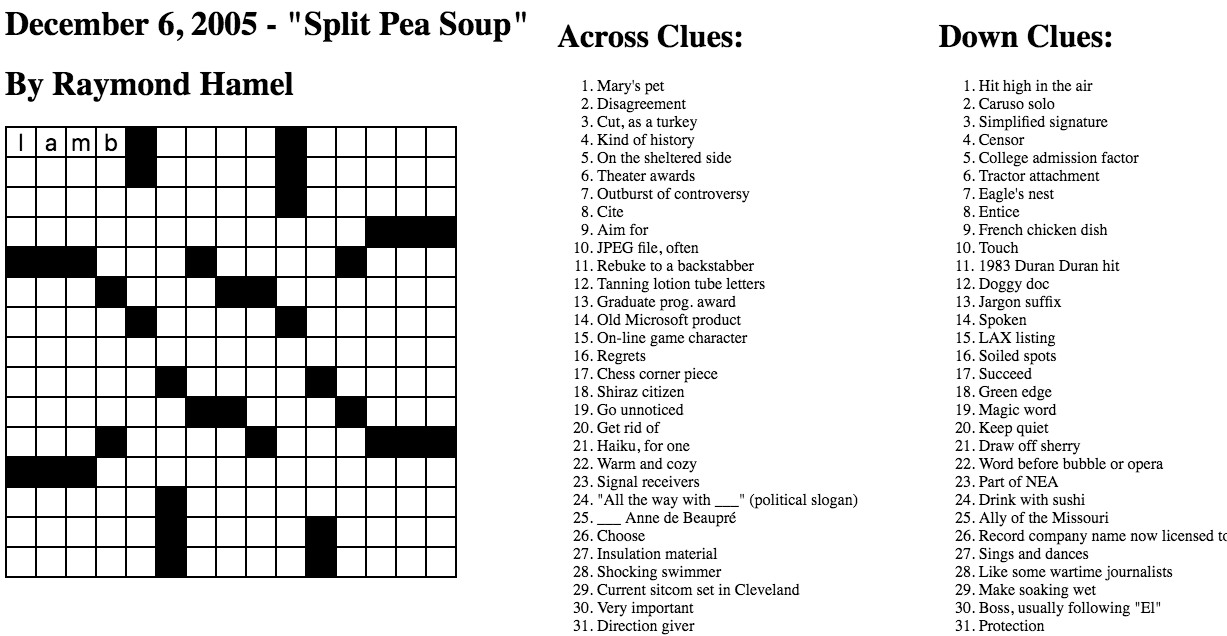
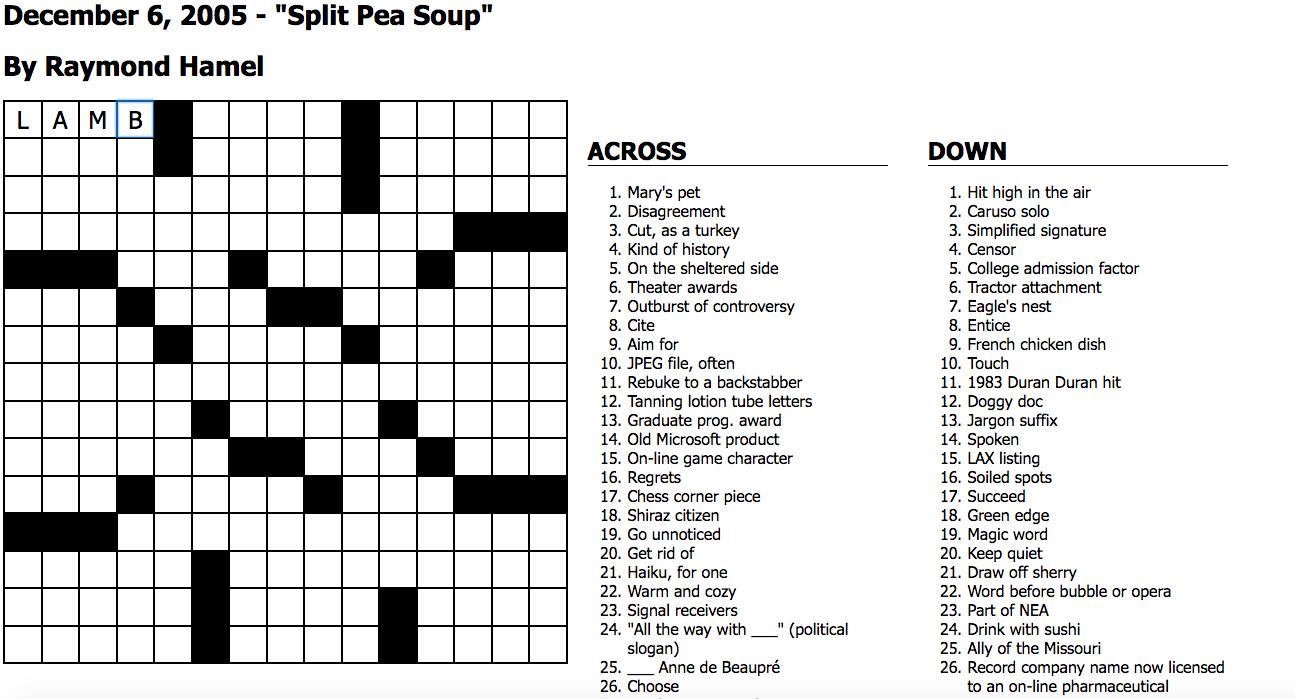
CW.html and applications.py edited, readme updated, /testfiles made public

Changed region(s): [[0.0, 0.0, 1.0, 1.0], [0.4645, 0.0299, 0.6194, 0.0896], [0.7433, 0.0299, 0.8981, 0.0896]]

diff --git a/templates/CW.html b/templates/CW.html
@@ -13,13 +13,14 @@ methods called from puz.py :
 	<style>
 		/*Title specs*/
 		#title{
-			font-size: 25pt;
+			font-size: 20pt;
+			font-family:Tahoma, Geneva, sans-serif;
 		}
 
+
 		/*Dimensions and specs of the crossword board: */
-		.board { border:1px solid black; 
-				width: {{Width *2}}px; 
-				height:{{Height*2}}px; 
+		.crossword-board-container .crossword-board .board{ 
+				border:1px solid black; 
 				margin:0 auto;
 				float: left;
  				}
@@ -28,37 +29,57 @@ methods called from puz.py :
 		{% for i in range(0,listSize) %}
 		#item{{i // Height + 1}}-{{i % Width + 1}}{
 			font-size:18pt;
+			text-transform: uppercase;
 			text-align: center;
+			font-family:Tahoma, Geneva, sans-serif;
 			}
 		{% endfor %}
 
 
 		/*Test 2*/
-		.crossword-clues {
-			position: absolute;
-			top: 0;
-			/*change these*/
-			left: 500;
-			width: 1000;
+
+		#clue-title{
+			border-bottom: 1px solid black;
+			font-size: 18pt;
 		}
+
+		.crossword-clues__list--across {
+		  float: left;
+		  top : 0px;
+		  right: 20px;
+		  width: 300px;
+		  padding: 200px;
+		  font-family:Tahoma, Geneva, sans-serif;
+		}
+
+		.crossword-clues__list--down{
+		  float: left;
+		  top : 0px;
+		  right: 20px;
+		  width: 300px;
+ 		  padding: 200px;
+ 		  font-family:Tahoma, Geneva, sans-serif;
+		}
+
 		.crossword-clues__list {
-			margin: 0 0 0 60px;
-			padding: 0;
+			margin: 0 0 0 0px;
+			padding: 20;
 			display: inline-block;
 			vertical-align: top;
 		}
 		.crossword-clues__list-title {
 			font-weight: bold;
-			padding: 4px;
+			padding: 20px;
 		}
 		.crossword-clues__list-item {
 			margin: 0;
-			padding: 4px;
+			padding: 20px;
 
 			&:before {
 				content: attr(data-number) '. ';
 			}
 		}
+
 		/*End test 2*/
 
 
@@ -119,22 +140,23 @@ methods called from puz.py :
 <!-- crossword-board-container wraps the crossword-board in a container -->
 <div class="crossword-board-container">
 	
-  <div class="crossword-board">
-	<h1 id="title"> {{title}} </h1>
-	<h1 id="title"> {{author}} </h1>
-		<div class=board style="width:{{listSize * 2}}px;height:{{listSize * 2}}px;">
+    <div class="crossword-board">
+		<h1 id="title"> {{title}} </h1>
+		<h1 id="title"> {{author}} </h1>
+		
+		<div class=board style="width:{{listSize * adjust}}px;height:{{listSize * adjust}}px;">
 			<!-- CREATE EACH BOX IN PUZZLE WITH FOR-LOOP AND listSize  -->
 			{% for i in range(0,listSize) %}
 				<style> 
-				.btn {BORDER: 1px solid;  COLOR: black; width: {{Width *2}}px; height:{{Height*2}}px; border: 1px solid black;padding: 0;margin: 0;float: left; background-color:white;}
-				.btnBlank {BORDER: 1px solid;  COLOR: black; width: {{Width *2 -2}}px; height:{{Height *2 -2}}px; border: 1px solid black;padding: 0;margin: 0;float: left; background-color:black;}
+				.btn {BORDER: 1px solid;  COLOR: black; width: {{Width *adjust}}px; height:{{Height*adjust}}px; border: 1px solid black;padding: 0;margin: 0;float: left; background-color:white;}
+				.btnBlank {BORDER: 1px solid;  COLOR: black; width: {{Width *adjust -2}}px; height:{{Height *adjust -2}}px; border: 1px solid black;padding: 0;margin: 0;float: left; background-color:black;}
 				</style>
 				{% if solutions[i] != '.' %}
 					<!-- 
 					- The "item"-prefix is used to identify each square.
 					- minlength and maxlength are for the lengths of legal text-entries for squares (black squares don't have entries).
 				    - "required" specifies that the box must be filled in before submitting the form-->
-					<input class=btn id="item{{i // Height + 1}}-{{i % Width + 1}}"  type="text" minlength="1" maxlength="1" required="required" size="30" type="text"> </input>
+					<input class=btn id="item{{i // Height + 1}}-{{i % Width + 1}}"  type="text" minlength="1" maxlength="1" required="required" type="text"> </input>
 				{% else %}
 					<div class=btnBlank id="item{{i // Height + 1}}-{{i % Width + 1}}" required="required"> </div>
 				{% endif %}
@@ -145,50 +167,50 @@ methods called from puz.py :
 
     <!-- input elements go here. Uses CSS Grid as its layout -->
 
-    <div class="crossword-board crossword-board--highlight crossword-board--highlight--across">
-      <!-- highlights for valid 'across' answers go here. Uses CSS Grid as its layout -->
-    </div>
+	    <div class="crossword-board crossword-board--highlight crossword-board--highlight--across">
+	      <!-- highlights for valid 'across' answers go here. Uses CSS Grid as its layout -->
+	    </div>
 
-    <div class="crossword-board crossword-board--highlight crossword-board--highlight-down">
-      <!-- highlights for valid 'down' answers go here. Uses CSS Grid as its layout -->
-    </div>
+	    <div class="crossword-board crossword-board--highlight crossword-board--highlight-down">
+	      <!-- highlights for valid 'down' answers go here. Uses CSS Grid as its layout -->
+	    </div>
 
-    <div class="crossword-board crossword-board--labels">
-      <!-- row and column number labels go here. Uses CSS Grid as its layout -->
-    </div>
+	    <div class="crossword-board crossword-board--labels">
+	      <!-- row and column number labels go here. Uses CSS Grid as its layout -->
+	    </div>
 
 
 
 
     <!-- CLUES OF THE CROSSWORD PUZZLE:  -->
-    <div class="crossword-clues">
+	    <div class="crossword-clues">
 
-      <!-- ACROSS CLUES	 -->
-      <dl class="crossword-clues__list crossword-clues__list--across">
-			<h1> Across Clues: </h1>
-			<ol id="acrossList">
-		    	<!-- across-clues will end up here -->
-		    	{% for x in across %}
-		    	<li> {{ x['clue'] }} </li>
-		    	{% endfor %}
-			</ol>       
-	  </dl>
+	      	<!-- ACROSS CLUES	 -->
+	      	<dl class="crossword-clues__list crossword-clues__list--across">
+				<h1 id="clue-title"> ACROSS </h1>
+				<ol id="acrossList">
+			    	<!-- across-clues will end up here -->
+			    	{% for x in across %}
+			    	<li> {{ x['clue'] }} </li>
+			    	{% endfor %}
+				</ol>       
+		  	</dl>
 
 
-	  <!-- DOWN CLUES -->
-      <dl class="crossword-clues__list crossword-clues__list--down">
-       		<h1> Down Clues: </h1>
-			<ol  id="downList">
-			    <!-- down-clues will end up here -->
-			    {% for x in down %}
-			    <li> {{ x['clue'] }} </li>
-			    {% endfor %}
-			</ol>
-      </dl>
+		  	<!-- DOWN CLUES -->
+	      	<dl class="crossword-clues__list crossword-clues__list--down">
+	       		<h1 id="clue-title"> DOWN </h1>
+				<ol  id="downList">
+				    <!-- down-clues will end up here -->
+				    {% for x in down %}
+				    <li> {{ x['clue'] }} </li>
+				    {% endfor %}
+				</ol>
+	      	</dl>
 
-    </div>
+	    </div>
 
-  </div>
+  	</div>
 
 </div>
 

diff --git a/application.py b/application.py
@@ -15,7 +15,7 @@ reload(sys)
 sys.setdefaultencoding('utf-8')
 
 
-p = puz.read('testfiles/washpost.puz')
+p = puz.read('testfiles/15by15.puz')
 numbering = p.clue_numbering()
 
 app = Flask(__name__)
@@ -30,6 +30,12 @@ app = Flask(__name__)
 #    author: creator of puzzle
 #    copyright: any copyright information
 
+def adjuster(x):
+   if (x > 20): return 1.5
+   elif (x > 10): return 2.5
+   else: return 3.5
+
+
 @app.route('/')
 def index():
    return render_template('CW.html', title=p.title ,marks = 10, 
@@ -40,8 +46,10 @@ def index():
    							listSize = p.height * p.width,
    							solutions = p.solution,
    							author = p.author,
-   							copyright = p.copyright)	
+   							copyright = p.copyright,
+                        adjust = adjuster(p.width))	
 
 
 if __name__ == '__main__':
    app.run(debug = True)
+
